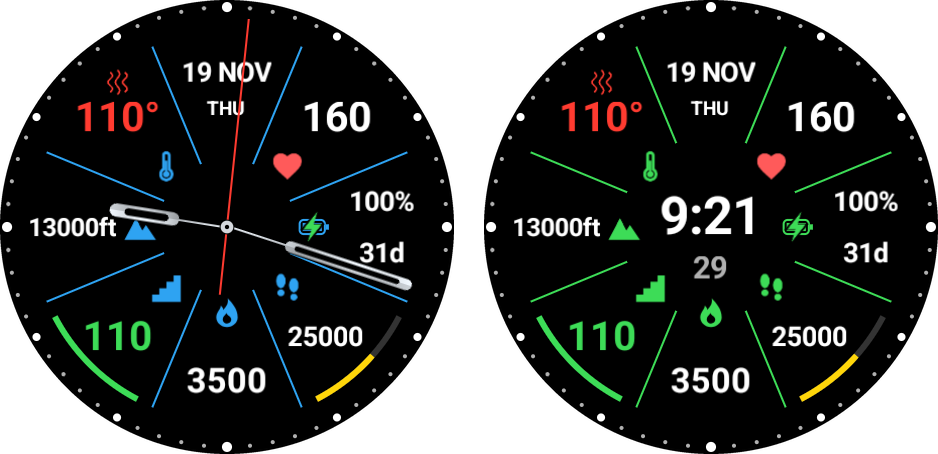
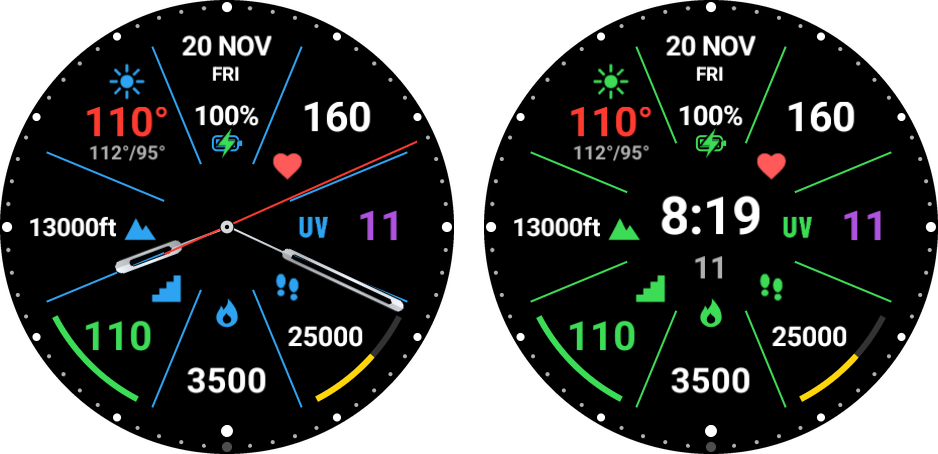
Move the battery under the date; freeze the test build's time
- Battery percentage and outline move into the 12 o'clock section,
  under the date and weekday, at the date's text size; the date moves
  up to make room.
- The test build freezes the hands and the digital time at 8:19:11,
  so the screenshots keep the hands clear of the stats.
- README: battery position, the face's data sources, the generated
  images and the number of DataDial Stats sources; screenshot and
  picker preview recaptured.

diff --git a/tools/generate.py b/tools/generate.py
@@ -50,7 +50,11 @@ VALUE_SIZES = [0.165, 0.25, 0.25, 0.165, 0.21, 0.25, 0.165, 0.25]
 LABEL_SIZE = 0.12  # weekday and complication titles
 VALUE_RADIUS = 0.68  # value text center
 ICON_RADIUS = 0.38  # icon center
-WEEKDAY_RADIUS = 0.525
+#: The 12 o'clock cell, from the edge in: date, weekday, then the battery
+#: (see BATTERY_TEXT_RADIUS). Distances from the center as fractions of the
+#: radius.
+DATE_RADIUS = 0.80
+WEEKDAY_RADIUS = 0.675
 ICON_SIZE = round(0.075 * SIZE)  # 7.5% of the screen, as in DataDial
 STEPS_VALUE_SHIFT = 0.045  # steps value moves left to clear its gauge
 LINE_START = 0.30  # divider lines, analog
@@ -71,16 +75,14 @@ SECONDS_SIZE = 0.19
 SECONDS_Y = 0.18
 
 BATTERY_LOW = 20  # percent
-#: The battery in the middle of the face (percentage above the icon):
-#: percentage text size (DataDial's terms, see FONT_SCALE), icon size as a
-#: fraction of ICON_SIZE, space between the text and the icon, and the
-#: height of the pair's middle as a fraction of the radius from the center:
-#: above the hub in analog mode, above the time in digital mode.
-CENTER_BATTERY_SIZE = 0.13
-CENTER_BATTERY_ICON = 0.8
-CENTER_BATTERY_GAP = 4
-ANALOG_BATTERY_Y = -0.15
-DIGITAL_BATTERY_Y = -0.29
+#: The battery in the 12 o'clock cell, under the weekday: the percentage
+#: above the icon. Percentage text size (DataDial's terms, see FONT_SCALE,
+#: the same as the date), icon size as a fraction of ICON_SIZE, and the
+#: distance of each from the center as a fraction of the radius.
+BATTERY_TEXT_SIZE = 0.165
+BATTERY_ICON_SCALE = 1.0
+BATTERY_TEXT_RADIUS = 0.49
+BATTERY_ICON_RADIUS = 0.37
 #: Temperature thresholds, in each unit (DataDial's 40 F and 90 F). The
 #: weather temperature is a whole number, so "below 4.44 C" is "below 5" and
 #: "above 32.22 C" is "above 32".
@@ -362,7 +364,9 @@ def goal_colors(percent, met):
 
 
 def date_slot(parent):
-    x, y = value_position(SLOT_DATE)
+    """The date and weekday at the top of the 12 o'clock cell; the battery
+    is under them (battery)."""
+    x, y = polar(slot_angle(SLOT_DATE), R * DATE_RADIUS)
     text(parent, x, y, 0.75 * R, VALUE_SIZES[SLOT_DATE] * R, "%s %s",
          ["[DAY]", "[MONTH_S]"], upper=True, name="date")
     x, y = polar(slot_angle(SLOT_DATE), R * WEEKDAY_RADIUS)
@@ -380,22 +384,19 @@ def heart_slot(parent):
     text(none, x, y, 0.6 * R, size, "--", [])
 
 
-def battery(parent, y, name):
-    """The battery in the middle of the face: the percentage above a small
-    outline filled to the charge level, the pair centered on the dial with
-    its middle at height y. Red below BATTERY_LOW, with a green bolt over
-    the outline while charging. Hidden in always-on mode."""
+def battery(parent):
+    """The battery in the 12 o'clock cell, under the date and weekday: the
+    percentage above an outline filled to the charge level. Red below
+    BATTERY_LOW, with a green bolt over the outline while charging."""
+    name = "battery"
     group = el(parent, "Group", name=name, x=0, y=0, width=SIZE, height=SIZE)
-    ambient_hide(group)
-    size = round(ICON_SIZE * CENTER_BATTERY_ICON)
+    size = round(ICON_SIZE * BATTERY_ICON_SCALE)
     pen = max(size // 14, 2)
     body_w, body_h, tip_w = round(size * 0.80), round(size * 0.48), round(size * 0.08)
-    text_size = CENTER_BATTERY_SIZE * R
+    text_size = BATTERY_TEXT_SIZE * R
     text_w = math.ceil(text_size * FONT_SCALE * 3.0)  # room for "100%"
-    # Distance between the centers of the text and the icon.
-    step = text_size * FONT_SCALE * 0.6 + body_h / 2 + CENTER_BATTERY_GAP
-    text_y = y - step / 2
-    icon_y = y + step / 2
+    text_y = C - R * BATTERY_TEXT_RADIUS
+    icon_y = C - R * BATTERY_ICON_RADIUS
     left = round(C - (body_w + tip_w) / 2)
     top = round(icon_y - body_h / 2)
     inset = pen + 2
@@ -584,30 +585,44 @@ def stats(scene):
     group = el(scene, "Group", name="stats", x=0, y=0, width=SIZE, height=SIZE)
     ambient_hide(group)
     date_slot(group)
+    battery(group)
     heart_slot(group)
     uv_slot(group)
     steps_slot(group)
     weather_slot(group)
 
 
-def hand_parts(clock, kind, resource, tint=None):
-    """One hand image, its pivot at the dial center (see render_hand)."""
+def hand_parts(clock, kind, resource, tint=None, angle=None):
+    """One hand image, its pivot at the dial center (see render_hand). With
+    an angle, a still image at that angle instead of a moving hand."""
     w, top, bottom = HAND_IMAGES[resource]
-    hand = el(clock, kind, resource=resource, x=round(C - w / 2), y=round(C - top),
-              width=w, height=top + bottom, pivotX=0.5, pivotY=top / (top + bottom))
+    box = dict(x=round(C - w / 2), y=round(C - top), width=w, height=top + bottom,
+               pivotX=0.5, pivotY=top / (top + bottom))
+    if angle is None:
+        hand = el(clock, kind, resource=resource, **box)
+    else:
+        hand = el(clock, "PartImage", angle=float(angle), **box)
+        el(hand, "Image", resource=resource)
     if tint:
         hand.set("tintColor", tint)
     return hand
 
 
-def analog_clock(parent):
+def analog_clock(parent, frozen=None):
     """Steel skeleton hands and a red seconds hand while awake; flat gray
-    hands in always-on mode."""
-    clock = el(parent, "AnalogClock", x=0, y=0, width=SIZE, height=SIZE, name="hands")
+    hands in always-on mode. frozen is an (hour, minute, second) to draw
+    the awake hands at instead of the time, for the test build."""
+    if frozen is None:
+        clock = el(parent, "AnalogClock", x=0, y=0, width=SIZE, height=SIZE, name="hands")
+        angles = (None, None, None)
+    else:
+        clock = el(parent, "Group", x=0, y=0, width=SIZE, height=SIZE, name="hands")
+        h, m, s = frozen
+        angles = ((h % 12) * 30 + m / 2 + s / 120, m * 6 + s / 10, s * 6)
     ambient_hide(clock)
-    hand_parts(clock, "HourHand", "hand_hour")
-    hand_parts(clock, "MinuteHand", "hand_minute")
-    hand_parts(clock, "SecondHand", "hand_second")
+    for kind, resource, angle in zip(("HourHand", "MinuteHand", "SecondHand"),
+                                     ("hand_hour", "hand_minute", "hand_second"), angles):
+        hand_parts(clock, kind, resource, angle=angle)
 
     sleep = el(parent, "AnalogClock", x=0, y=0, width=SIZE, height=SIZE,
                name="sleepHands", alpha=0)
@@ -650,15 +665,12 @@ def digital_clock(parent):
 
 
 def clock(scene):
-    """Divider lines, the battery and the time, by the clock style
-    setting."""
+    """Divider lines and the time, by the clock style setting."""
     config = el(scene, "ListConfiguration", id="clockStyle")
     analog = el(config, "ListOption", id="0")
     divider_lines(analog, LINE_START)
-    battery(analog, C + R * ANALOG_BATTERY_Y, "battery")
     digital = el(config, "ListOption", id="1")
     divider_lines(digital, DIGITAL_LINE_START)
-    battery(digital, C + R * DIGITAL_BATTERY_Y, "batteryDigital")
     digital_clock(digital)
     return analog
 
@@ -677,12 +689,13 @@ def user_configurations(face):
             el(cc, "ColorOption", id=str(i), displayName=label, colors=color)
 
 
-def watch_face():
+def watch_face(test=False):
     face = ET.Element("WatchFace", width=str(SIZE), height=str(SIZE))
     el(face, "Metadata", key="CLOCK_TYPE", value="ANALOG")
     # The picker preview's time: the hands lie along divider lines, clear of
-    # the stats (the same time as DataDial's test build).
-    el(face, "Metadata", key="PREVIEW_TIME", value="12:41:26")
+    # the stats (the same time as the test build).
+    h, m, s = TEST_TIME
+    el(face, "Metadata", key="PREVIEW_TIME", value=f"{h:02d}:{m:02d}:{s:02d}")
     user_configurations(face)
     scene = el(face, "Scene", backgroundColor="#000000")
     dial(scene)
@@ -692,7 +705,7 @@ def watch_face():
     # The clock is drawn last, over the stats. Analog hands go in the
     # analog option of the clock style setting.
     analog = clock(scene)
-    analog_clock(analog)
+    analog_clock(analog, frozen=TEST_TIME if test else None)
     return face
 
 
@@ -1161,10 +1174,21 @@ def write_stats_icons():
         (out / f"{name}.xml").write_text(xml, encoding="utf-8", newline="\n")
 
 
+#: The test build's time (hour, minute, second), also the picker preview's:
+#: all three hands lie along divider lines, clear of the stats and of the
+#: battery above the center.
+TEST_TIME = (8, 19, 11)
+
 #: Fixed worst-case values for the test build (--test), to check the layout:
 #: the widest values, a goal gauge part way (yellow) and charging. DataDial
 #: Stats has its own test values for its stats (build.sh test turns them on).
+#: The digital time shows TEST_TIME (the analog hands are frozen at it in
+#: watch_face).
 TEST_VALUES = {
+    "[HOUR_1_12]": str(TEST_TIME[0]),
+    "[HOUR_0_23_Z]": f"{TEST_TIME[0]:02d}",
+    "[MINUTE_Z]": f"{TEST_TIME[1]:02d}",
+    "[SECOND_Z]": f"{TEST_TIME[2]:02d}",
     "[STEP_COUNT]": "25000",
     "[STEP_GOAL]": "41667",
     "[STEP_PERCENT]": "60",
@@ -1183,7 +1207,7 @@ TEST_VALUES = {
 
 
 def write_xml(test=False):
-    face = watch_face()
+    face = watch_face(test)
     ET.indent(face, space="    ")
     out = RES / "raw" / "watchface.xml"
     out.parent.mkdir(parents=True, exist_ok=True)

diff --git a/README.md b/README.md
@@ -15,24 +15,24 @@ watch.
 ![DataDial on the Wear OS 7 emulator, analog and digital](docs/screenshot.png)
 
 *Test build (`./build.sh test`) on the Wear OS 7 emulator: analog with the default blue
-(left) and digital with the green accent (right). The test build shows the same fixed values
-as the Garmin test build: 25,000 steps (60% of the goal), heart rate 160, 100% battery while
-charging, sunny and 110 °F (hot, high 112 °F, low 95 °F), 3,500 calories, 110 floors (goal met) and 13,000 ft, plus UV index 11
-(extreme).*
+(left) and digital with the green accent (right), at the test build's fixed time of 8:19:11,
+which keeps the hands clear of the stats. The test build shows the same fixed values as the
+Garmin test build: 25,000 steps (60% of the goal), heart rate 160, 100% battery while
+charging, sunny and 110 °F (hot; high 112 °F, low 95 °F), 3,500 calories, 110 floors (goal
+met) and 13,000 ft, plus UV index 11 (extreme).*
 
 ## The face
 
 Same layout as the Garmin version: a dot for every minute around the edge, eight stats
 divided by colored lines, each with an icon toward the center and a white value toward the
 edge, see-through steel hands with a red seconds hand, or a digital time with seconds below.
-The battery moves to the middle, its percentage above its icon: above the center of the hands,
-or above the digital time.
+The battery moves into the 12 o'clock section, under the date.
 
 | Section | Garmin DataDial | Wear OS DataDial |
 |---|---|---|
-| 12 o'clock | Date, weekday | Same |
+| 12 o'clock | Date, weekday | Same, plus the battery % under them |
 | 1:30 | Heart rate | Same |
-| 3 o'clock | Battery %, days left | **UV index** from the weather; the battery % is in the middle |
+| 3 o'clock | Battery %, days left | **UV index** from the weather; the battery % is at 12 o'clock |
 | 4:30 | Steps, with goal gauge | Same |
 | 6 o'clock | Calories | Same, from DataDial Stats |
 | 7:30 | Floors, with goal gauge | Same, from DataDial Stats (goal: 10 floors) |
@@ -41,8 +41,9 @@ or above the digital time.
 
 ### DataDial Stats
 
-A Watch Face Format face is XML with no code, and it can only read steps and heart rate: it
-has no calories, floors or elevation (checked against Watch Face Format version 5).
+A Watch Face Format face is XML with no code. Of the health stats it can only read steps and
+heart rate (besides the battery and the weather): it has no calories, floors or elevation
+(checked against Watch Face Format version 5).
 DataDial Stats reads them and hands them to the face as
 [complications](https://developer.android.com/training/wearables/wff/complications), which
 DataDial uses by default:
@@ -81,8 +82,8 @@ values). A source with no data at the moment shows nothing; with no source chose
 section shows `--`. Without DataDial Stats installed, they default to sunrise/sunset, unread
 notifications and a world clock.
 
-- **Battery:** the percentage above a small outline filled to the charge level; below 20%
-  both turn red. A green bolt appears over the outline while charging.
+- **Battery:** under the date and weekday, the percentage above an outline filled to the
+  charge level; below 20% both turn red. A green bolt appears over the outline while charging.
 - **UV index:** the current UV index from the watch's weather, in WHO risk colors from high
   up: orange from 6, red from 8, purple from 11 (white below 6). Without weather data it
   shows `--`.
@@ -119,8 +120,8 @@ Purple, White and Gray. The digital time follows the watch's 12/24-hour setting.
 
 Watch Face Format is declarative XML with no code. DataDial's layout is computed from the
 screen radius, so `tools/generate.py` writes the XML from the same proportions as the Garmin
-version, and renders the images (icons from `art/`, the steel hands, the bolt, snowflake and
-heat waves) with Pillow. It also writes DataDial Stats' icons from the same `art/` files.
+version, and renders the images (icons from `art/`, the steel hands, the bolt and the
+weather icons) with Pillow. It also writes DataDial Stats' icons from the same `art/` files.
 Edit the script, not the generated files.
 
 DataDial Stats (`stats/`) is a separate Kotlin app, because a Watch Face Format bundle can't
@@ -136,7 +137,7 @@ contain code.
 | `watchface/src/main/res/xml/watch_face_info.xml` | Preview image and picker settings |
 | `watchface/src/main/res/values/strings.xml` | Names shown in the editor |
 | `watchface/src/main/res/drawable/preview.png` | Picker and store preview (an emulator capture of the test build) |
-| `stats/src/main/kotlin/.../Sources.kt` | DataDial Stats' four complication data sources |
+| `stats/src/main/kotlin/.../Sources.kt` | DataDial Stats' three complication data sources |
 | `stats/src/main/kotlin/.../Health.kt` | Daily calories and floors from Health Services |
 | `stats/src/main/kotlin/.../Elevation.kt` | Barometric elevation and its calibration |
 | `stats/src/main/kotlin/.../Sensors.kt` | One-shot sensor readings |
